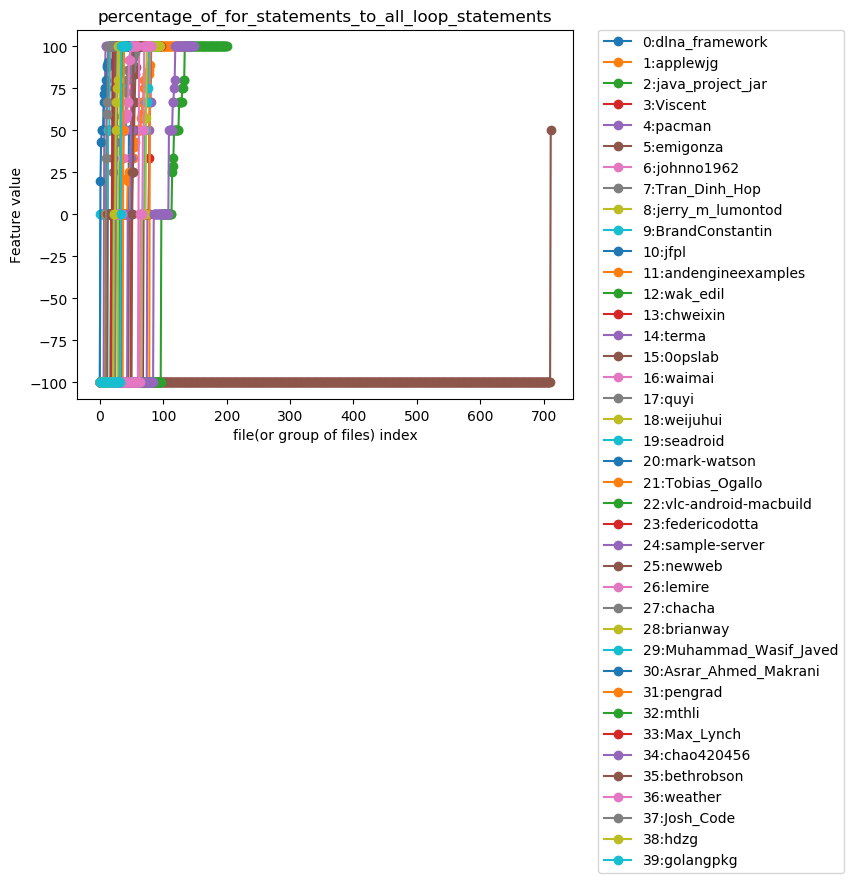
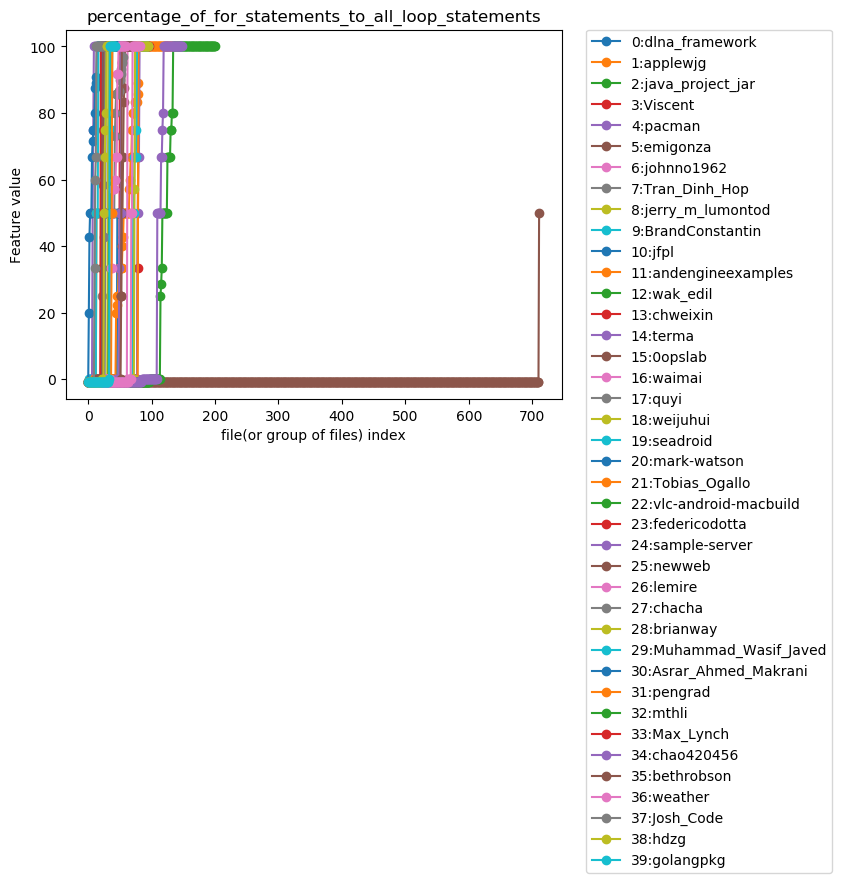
Fixed error in percentage metrics. -1 was multiplied on 100 = -100.

diff --git a/psob_authorship/features/java/ast_metrics/StatementsMetricsCalculator.py b/psob_authorship/features/java/ast_metrics/StatementsMetricsCalculator.py
@@ -7,7 +7,8 @@ import torch
 from psob_authorship.features.java.ast.Ast import Ast
 from psob_authorship.features.java.ast.AstNode import AstNode
 from psob_authorship.features.java.ast.AstVisitor import AstVisitor
-from psob_authorship.features.utils import divide_with_handling_zero_division
+from psob_authorship.features.utils import divide_with_handling_zero_division, \
+    divide_with_percentage_and_handling_zero_division
 
 
 class StatementsMetricsCalculator:
@@ -30,12 +31,12 @@ class StatementsMetricsCalculator:
         :param filepaths: paths to files for which metric should be calculated
         :return: (number of for statements) / (number of all loop statements) * 100
         """
-        return divide_with_handling_zero_division(
+        return divide_with_percentage_and_handling_zero_division(
             sum([self.fors_for_file[filepath] for filepath in filepaths]),
             sum([self.fors_for_file[filepath] + self.whiles_for_file[filepath] for filepath in filepaths]),
             self.LOGGER,
             "calculating percentage of for statements to all loop statements for " + str(filepaths)
-        ) * 100
+        )
 
     def percentage_of_if_statements_to_all_conditional_statements(self, filepaths: Set[str]) -> float:
         """
@@ -43,12 +44,12 @@ class StatementsMetricsCalculator:
         :param filepaths: paths to files for which metric should be calculated
         :return: (number of if statements) / (number of all conditional statements) * 100
         """
-        return divide_with_handling_zero_division(
+        return divide_with_percentage_and_handling_zero_division(
             sum([self.ifs_for_file[filepath] for filepath in filepaths]),
             sum([self.ifs_for_file[filepath] + self.switches_for_file[filepath] for filepath in filepaths]),
             self.LOGGER,
             "calculating percentage of if statements to all conditional statements for " + str(filepaths)
-        ) * 100
+        )
 
     def average_number_of_methods_per_class(self, filepaths: Set[str]) -> float:
         """
@@ -69,12 +70,12 @@ class StatementsMetricsCalculator:
         :param filepaths: paths to files for which metric should be calculated
         :return: (number of catches statements) / (number of tries statements) * 100
         """
-        return divide_with_handling_zero_division(
+        return divide_with_percentage_and_handling_zero_division(
             sum([self.catches_for_file[filepath] for filepath in filepaths]),
             sum([self.tries_for_file[filepath] - self.catches_for_file[filepath] for filepath in filepaths]),
             self.LOGGER,
             "calculating percentage of if statements to all conditional statements for " + str(filepaths)
-        ) * 100
+        )
 
     def ratio_of_branch_statements(self, filepaths: Set[str]) -> float:
         """
@@ -116,7 +117,6 @@ class StatementsMetricsCalculator:
 
     def average_number_of_interfaces_per_class(self, filepaths: Set[str]) -> float:
         """
-        TODO: calculate all of interfaces, not only implements words
         Calculates average number of interfaces per class
         :param filepaths: paths to files for which metric should be calculated
         :return: number of implements keywords / number of classes

diff --git a/psob_authorship/features/java/ast_metrics/VariableMetricsCalculator.py b/psob_authorship/features/java/ast_metrics/VariableMetricsCalculator.py
@@ -6,7 +6,8 @@ import torch
 
 from psob_authorship.features.java.ast.Ast import Ast
 from psob_authorship.features.java.ast.AstSpecificTokensExtractor import AstSpecificTokensExtractor
-from psob_authorship.features.utils import divide_with_handling_zero_division
+from psob_authorship.features.utils import divide_with_handling_zero_division, \
+    divide_with_percentage_and_handling_zero_division
 
 
 class VariableMetricsCalculator:
@@ -27,12 +28,12 @@ class VariableMetricsCalculator:
         :param filepaths: paths to files for which metric should be calculated
         :return: variables without uppercase letters metric
         """
-        return divide_with_handling_zero_division(
+        return divide_with_percentage_and_handling_zero_division(
             sum([self.number_of_variables_in_lowercase_for_file[filepath] for filepath in filepaths]),
             sum([self.number_of_variables_in_lowercase_for_file[filepath] for filepath in filepaths]),
             self.LOGGER,
             "calculating metric percentage of variable naming without uppercase letters for " + str(filepaths)
-        ) * 100
+        )
 
     def percentage_of_variable_naming_starting_with_lowercase_letters(self, filepaths: Set[str]) -> float:
         """
@@ -40,12 +41,12 @@ class VariableMetricsCalculator:
         :param filepaths: paths to files for which metric should be calculated
         :return: variables starting with lowercase letters metric
         """
-        return divide_with_handling_zero_division(
+        return divide_with_percentage_and_handling_zero_division(
             sum([self.number_of_variables_starting_with_lowercase_for_file[filepath] for filepath in filepaths]),
             sum([self.number_of_variables_in_lowercase_for_file[filepath] for filepath in filepaths]),
             self.LOGGER,
             "calculating metric percentage of variable naming starting with lowercase letters for " + str(filepaths)
-        ) * 100
+        )
 
     def average_variable_name_length(self, filepaths: Set[str]) -> float:
         """
@@ -67,12 +68,12 @@ class VariableMetricsCalculator:
         :param filepaths: paths to files for which metric should be calculated
         :return: ratio of loops variables to all variables
         """
-        return divide_with_handling_zero_division(
+        return divide_with_percentage_and_handling_zero_division(
             sum([self.number_of_variables_in_for_control_for_file[filepath] for filepath in filepaths]),
             sum([self.number_of_variables_for_file[filepath] for filepath in filepaths]),
             self.LOGGER,
             "calculating metric preference_for_cyclic_variables for " + str(filepaths)
-        ) * 100
+        )
 
     def ratio_of_macro_variables(self, filepaths: Set[str]) -> float:
         """

diff --git a/psob_authorship/features/java/character_metrics/CharacterMetricsCalculator.py b/psob_authorship/features/java/character_metrics/CharacterMetricsCalculator.py
@@ -4,7 +4,8 @@ from collections import defaultdict
 import torch
 from typing import Dict, Set
 
-from psob_authorship.features.utils import get_absfilepaths, divide_with_handling_zero_division
+from psob_authorship.features.utils import get_absfilepaths, divide_with_handling_zero_division, \
+    divide_with_percentage_and_handling_zero_division
 
 
 class CharacterMetricsCalculator:
@@ -27,12 +28,12 @@ class CharacterMetricsCalculator:
         :param filepaths: paths to files for which metric should be calculated
         :return: open braces alone in a line metric
         """
-        return divide_with_handling_zero_division(
+        return divide_with_percentage_and_handling_zero_division(
             sum([self.alone_open_braces_for_file[filepath] for filepath in filepaths]),
             sum([self.open_braces_for_file[filepath] for filepath in filepaths]),
             self.LOGGER,
             "calculating percentage of open braces alone in a line for " + str(filepaths)
-        ) * 100
+        )
 
     def percentage_of_close_braces_alone_in_a_line(self, filepaths: Set[str]) -> float:
         """
@@ -43,12 +44,12 @@ class CharacterMetricsCalculator:
         :param filepaths: paths to files for which metric should be calculated
         :return: close braces alone in a line metric
         """
-        return divide_with_handling_zero_division(
+        return divide_with_percentage_and_handling_zero_division(
             sum([self.alone_close_braces_for_file[filepath] for filepath in filepaths]),
             sum([self.close_braces_for_file[filepath] for filepath in filepaths]),
             self.LOGGER,
             "calculating percentage of close braces alone in a line for " + str(filepaths)
-        ) * 100
+        )
 
     def average_character_number_per_java_file(self, filepaths: Set[str]) -> float:
         """

diff --git a/psob_authorship/features/java/line_metrics/LineMetricsCalculator.py b/psob_authorship/features/java/line_metrics/LineMetricsCalculator.py
@@ -6,7 +6,8 @@ from collections import defaultdict
 import torch
 from typing import Dict, Set, List
 
-from psob_authorship.features.utils import divide_with_handling_zero_division, get_absfilepaths
+from psob_authorship.features.utils import divide_with_handling_zero_division, get_absfilepaths, \
+    divide_with_percentage_and_handling_zero_division
 
 
 class LineMetricsCalculator:
@@ -59,13 +60,13 @@ class LineMetricsCalculator:
         :param filepaths: paths to files for which metric should be calculated
         :return: block comment lines metric
         """
-        return divide_with_handling_zero_division(
+        return divide_with_percentage_and_handling_zero_division(
             sum([self.comment_lines_for_file[filepath] - self.single_line_comments_for_file[filepath]
                  for filepath in filepaths]),
             sum([self.comment_lines_for_file[filepath] for filepath in filepaths]),
             self.LOGGER,
             "calculating percentage of block comments to all comment lines for " + str(filepaths)
-        ) * 100
+        )
 
     def __init__(self, dataset_path: str) -> None:
         self.LOGGER.info("Started calculating line metrics")

diff --git a/psob_authorship/features/utils.py b/psob_authorship/features/utils.py
@@ -35,6 +35,12 @@ def get_absfilepaths(file_or_dir):
     return filenames
 
 
+def divide_with_percentage_and_handling_zero_division(numerator, denominator, logger: logging.Logger,
+                                                      log_information, zero_division_return=float(-1)):
+    result = divide_with_handling_zero_division(numerator, denominator, logger, log_information, zero_division_return)
+    return zero_division_return if result == zero_division_return else result * 100
+
+
 def divide_with_handling_zero_division(numerator, denominator, logger: logging.Logger, log_information,
                                        zero_division_return=float(-1)):
     if denominator == 0:
